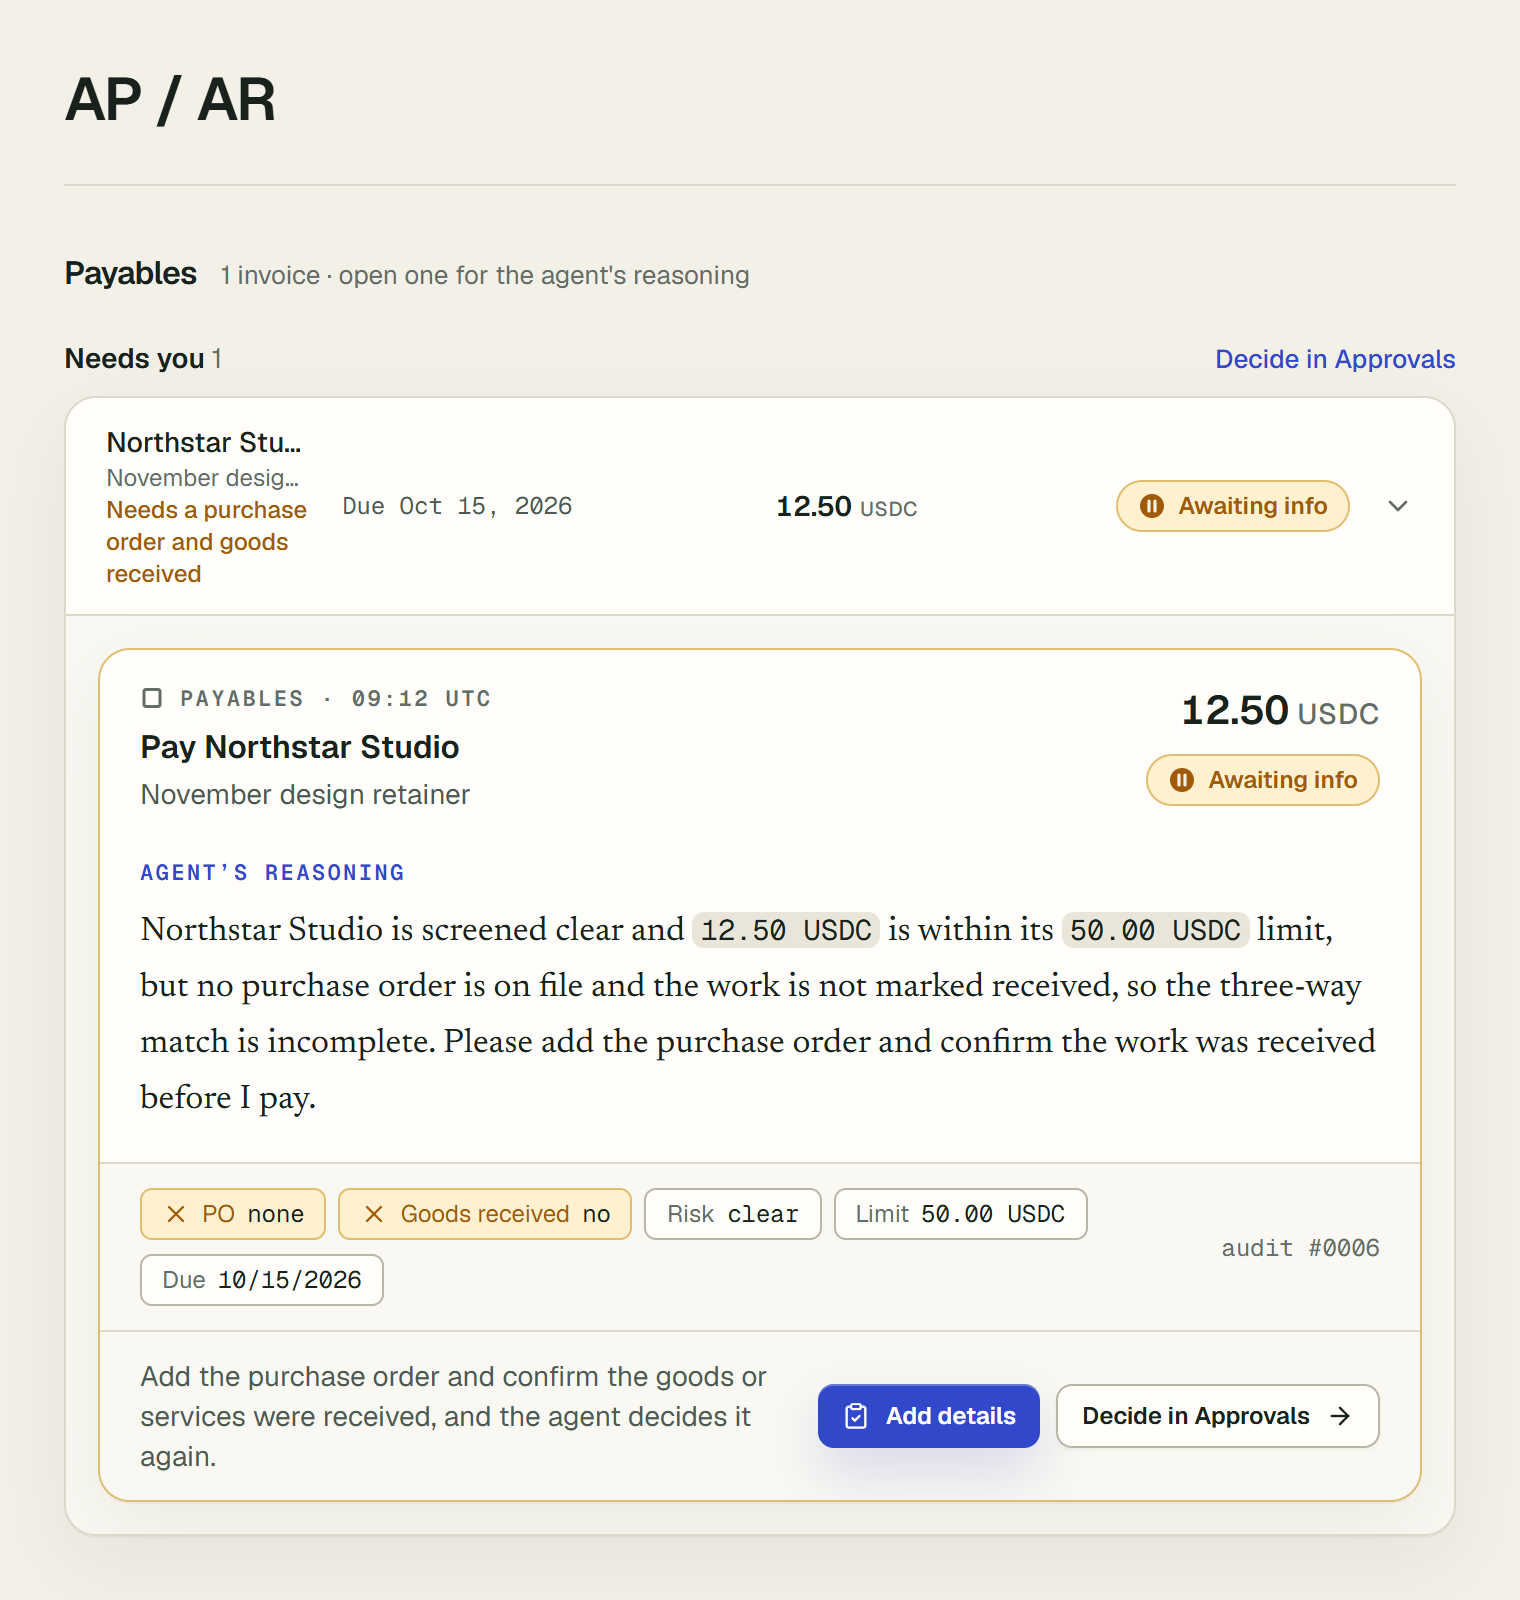
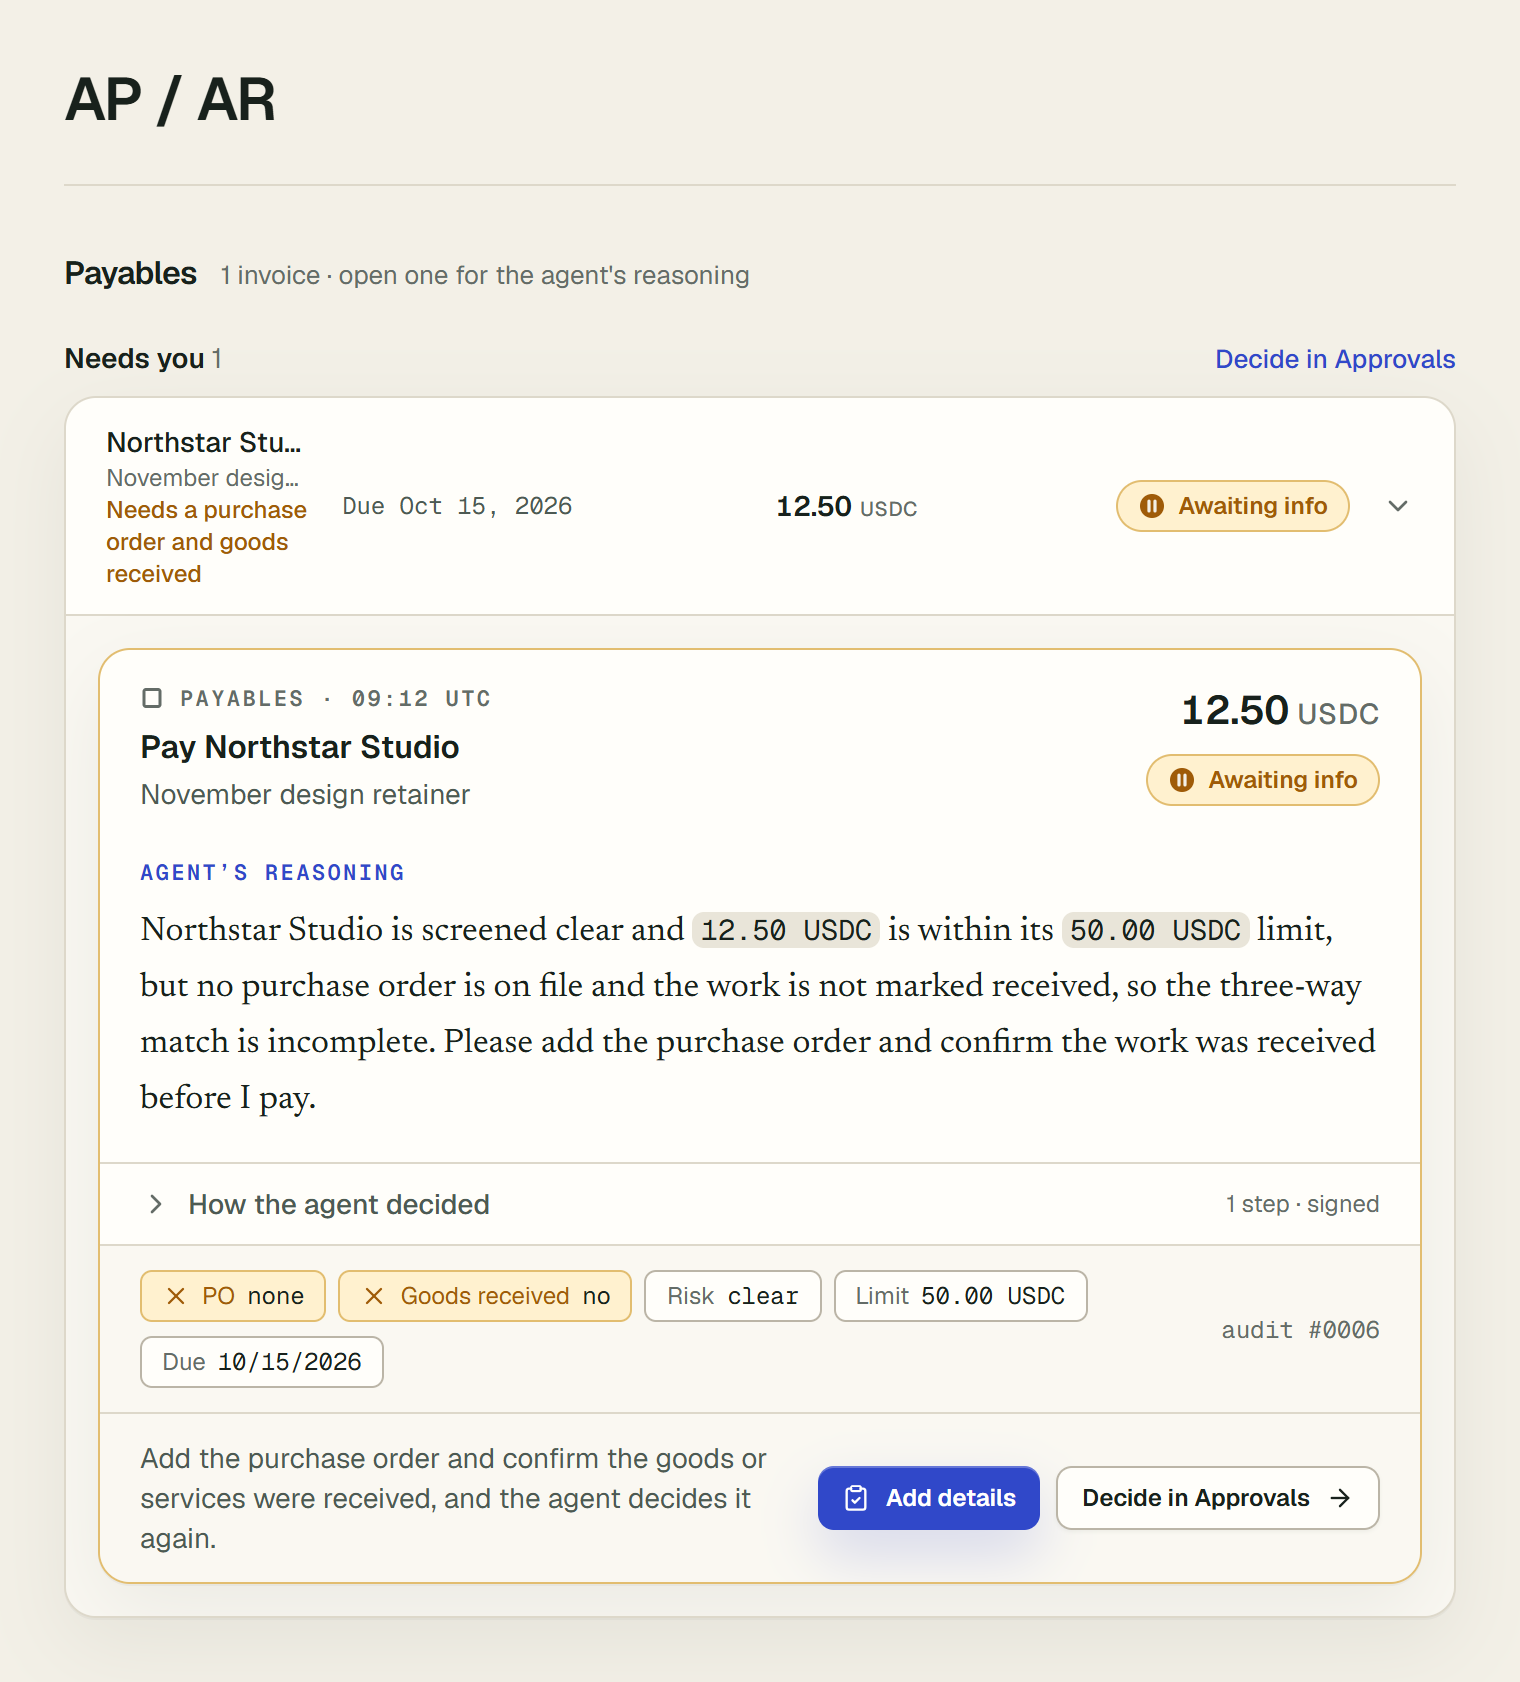
Document the decision trail and what the agent's news says

diff --git a/src/app/docs-shots/shots.tsx b/src/app/docs-shots/shots.tsx
@@ -200,6 +200,51 @@ const STOP_ENTRY: LedgerEntry = {
   },
 };
 
+/** A payable completed by a person and paid by the agent, as its trail tells it (decision trail R2). */
+const TRAIL_INVOICE: InvoiceRow = {
+  ...INVOICE,
+  id: "00000000-0000-4000-8000-0000000000e7",
+  memo: "November design retainer",
+  po_reference: "PO-2215",
+  agent_reasoning: "The three-way match is now complete with PO-2215, and 12.50 USDC is well within Northstar Studio's limit, so I pay it today.",
+  tx_ref: `0x${"5c".repeat(32)}`,
+};
+
+const trailEntry = (seq: number, ts: string, actor: LedgerEntry["actor"], action: string, detail: Record<string, unknown>): LedgerEntry => ({
+  ...PAYMENT_ENTRY,
+  seq,
+  id: `docs-trail-${seq}`,
+  ts,
+  actor,
+  domain: "ap",
+  action,
+  summary: action,
+  detail: { invoiceId: TRAIL_INVOICE.id, ...detail },
+});
+
+/** Newest first, as the ledger reads them. */
+const TRAIL_ENTRIES: LedgerEntry[] = [
+  trailEntry(15, "2026-10-03T09:14:31Z", "agent", "ap_pay", {
+    decisionMode: "deepseek",
+    agreedWithReference: true,
+    decision: { action: "pay" },
+    observed: { riskLevel: "clear", paymentLimit: 50, poReference: "PO-2215", goodsReceived: true, amount: 12.5 },
+    onChainLimit: { verdict: { state: "allowed" } },
+    execution: { txRef: TRAIL_INVOICE.tx_ref, resultingStatus: "paid" },
+  }),
+  trailEntry(14, "2026-10-03T09:14:19Z", "agent", "invoice_reopened", {
+    followUp: { changes: ["purchase order PO-2215 has since been supplied", "goods have since been confirmed received"] },
+  }),
+  trailEntry(13, "2026-10-03T09:14:05Z", "human", "invoice_details_added", { added: { poReference: "PO-2215", goodsReceived: true } }),
+  trailEntry(12, "2026-10-03T09:00:31Z", "agent", "ap_request_info", {
+    decisionMode: "deepseek",
+    agreedWithReference: true,
+    decision: { action: "request_info" },
+    observed: { riskLevel: "clear", paymentLimit: 50, poReference: null, goodsReceived: false, amount: 12.5 },
+  }),
+  trailEntry(11, "2026-10-03T09:00:12Z", "human", "create_invoice", {}),
+];
+
 /** A payable the agent asked about, waiting on Invoices: nothing of its three-way match is on file (complete held invoice). */
 const ASKED_INVOICE: InvoiceRow = {
   ...INVOICE,
@@ -544,6 +589,14 @@ export const DOCS_SHOTS = {
           <DecisionRows orgSlug={SLUG} items={[{ decision: invoiceDecision(INVOICE, COUNTERPARTY, ENTRIES), date: { label: "Due Oct 15, 2026" }, open: true }]} />
         </section>
       );
+    },
+  },
+  "first-payment-trail": {
+    guide: "first-payment",
+    page: "invoices",
+    render: function TrailShot() {
+      // The card alone, as an opened row on AP / AR shows it; the script opens How the agent decided.
+      return <DecisionCard decision={invoiceDecision(TRAIL_INVOICE, COUNTERPARTY, TRAIL_ENTRIES)} orgSlug={SLUG} />;
     },
   },
   "first-payment-needs-you": {

diff --git a/tests/docs-guides.test.ts b/tests/docs-guides.test.ts
@@ -308,6 +308,12 @@ const QUOTED: Record<GuideSlug, Array<readonly [string, string]>> = {
     ["Details added · the agent decides it again", "src/lib/added-details.ts"],
     ["Decide in Approvals", "src/components/WaitingPayableAction.tsx"],
     ["The agent is working", "src/lib/agent-activity.ts"],
+    ["Deciding now", "src/components/vx/Primitives.tsx"],
+    ["How the agent decided", "src/components/vx/DecisionTrail.tsx"],
+    ["How it decided", "src/lib/agent-activity.ts"],
+    ["after details were added", "src/lib/agent-activity.ts"],
+    ["as the written policy would", "src/lib/agent-activity.ts"],
+    ["the spending-limit contract allowed it", "src/lib/agent-activity.ts"],
     ["View on Arcscan", "src/components/AgentActivity.tsx"],
     ["See them", "src/components/AgentActivity.tsx"],
     ["The agent made", "src/components/AgentActivity.tsx"],
